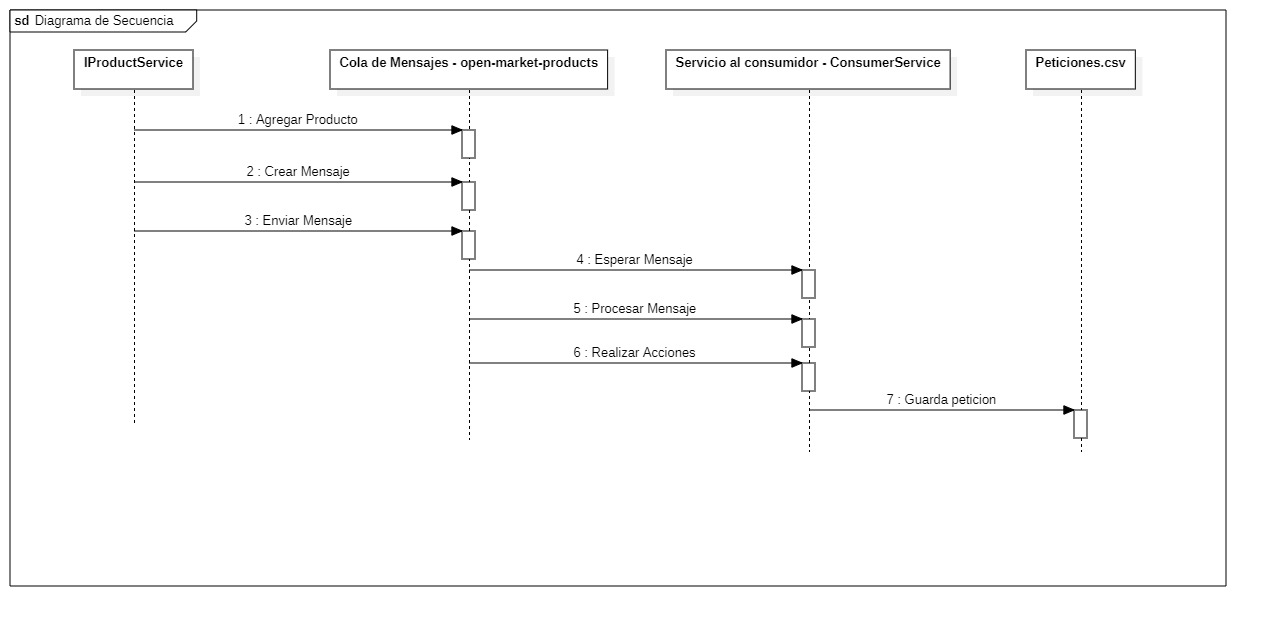
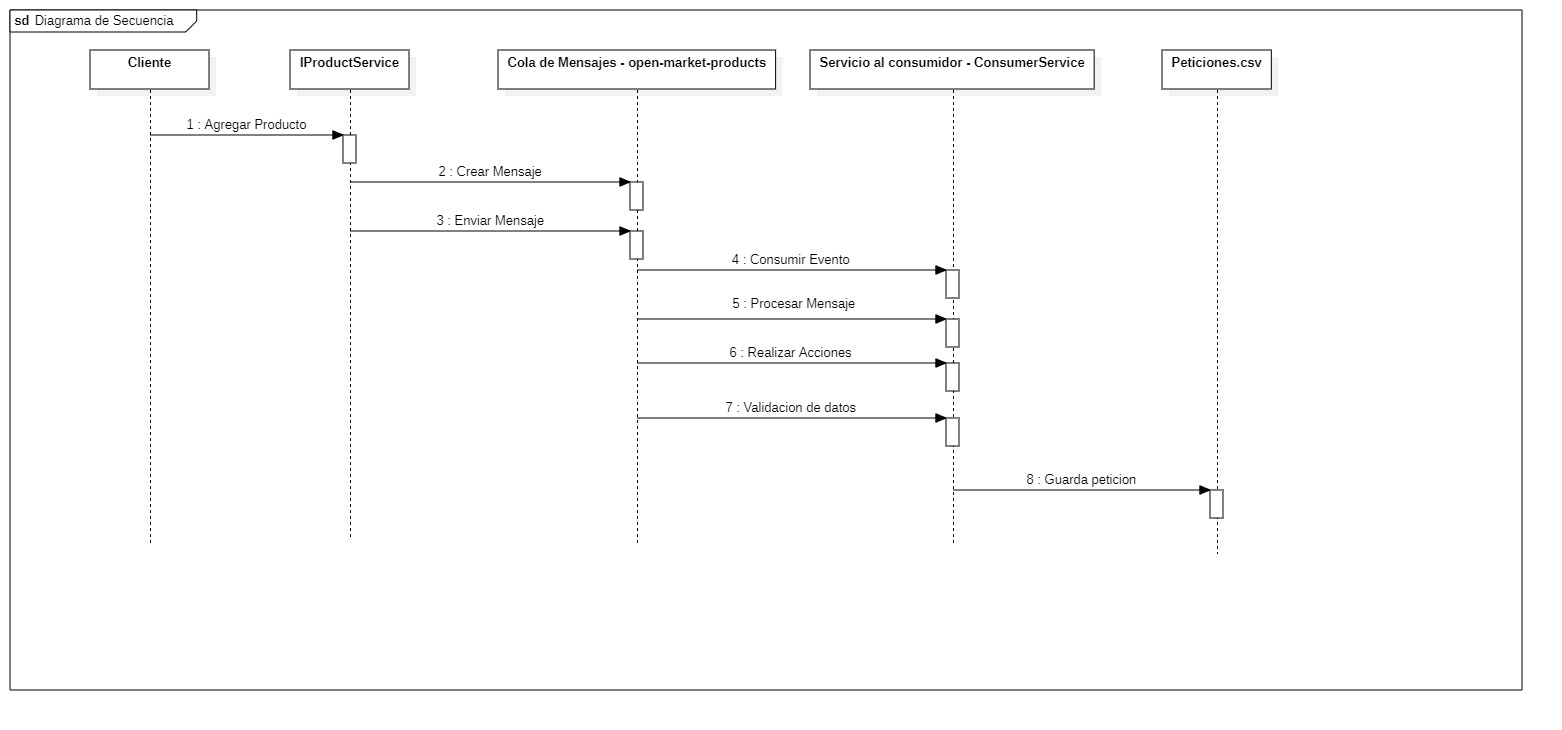
changes in relation to the suggestions made

Changed region(s): [[0.0, 0.0, 0.9858, 0.9712], [0.6161, 0.6374, 0.8626, 0.6981]]

diff --git a/aoe/open_market_producer/src/main/java/co/unicauca/open_market/config/QueueCreator.java b/aoe/open_market_producer/src/main/java/co/unicauca/open_market/config/QueueCreator.java
@@ -1,10 +1,12 @@
 package co.unicauca.open_market.config;
 
 import javax.annotation.PostConstruct;
+import org.springframework.amqp.core.Binding;
+import org.springframework.amqp.core.BindingBuilder;
+import org.springframework.amqp.core.FanoutExchange;
 import org.springframework.amqp.core.Queue;
 import org.springframework.amqp.rabbit.core.RabbitAdmin;
 import org.springframework.beans.factory.annotation.Autowired;
-import org.springframework.context.annotation.Bean;
 import org.springframework.stereotype.Component;
 
 @Component
@@ -20,6 +22,7 @@ public class QueueCreator {
     @PostConstruct
     public void createQueueOpenMarketProducts() {
         String queueName = "open-market-products";
+        String queueCsvName = "open-market-products-csv";
 
         if (!queueExists(queueName)) {
             Queue queue = new Queue(queueName, true, false, false);
@@ -28,6 +31,25 @@ public class QueueCreator {
             queue.getArguments().put("x-argument", "value");
 
             rabbitAdmin.declareQueue(queue);
+            
+            Queue queueCsv = new Queue(queueCsvName, true, false, false);
+            queueCsv.setShouldDeclare(true);
+
+            queueCsv.getArguments().put("x-argument", "value");
+
+            rabbitAdmin.declareQueue(queueCsv);
+            
+            
+            // Crear un intercambio de tipo "fanout"
+            FanoutExchange exchange = new FanoutExchange("open-market-products-exchange");
+            rabbitAdmin.declareExchange(exchange);
+
+            // Realizar la unión entre la cola y el intercambio
+            Binding binding = BindingBuilder.bind(queue).to(exchange);
+            rabbitAdmin.declareBinding(binding);
+            
+            Binding bindingCsv = BindingBuilder.bind(queueCsv).to(exchange);
+            rabbitAdmin.declareBinding(bindingCsv);
         }
     }
 

diff --git a/aoe/open_market_producer/src/main/java/co/unicauca/open_market/domain/service/ProductServiceImpl.java b/aoe/open_market_producer/src/main/java/co/unicauca/open_market/domain/service/ProductServiceImpl.java
@@ -39,7 +39,7 @@ public class ProductServiceImpl implements IProductService {
     @Transactional(readOnly = false)
     public Product create(Product product) {
         Product newProduct = this.repository.save(product);
-        rabbitTemplate.convertAndSend("open-market-products", (String)createMessage(newProduct));
+        rabbitTemplate.convertAndSend("open-market-products-exchange", "", (String)createMessage(newProduct));
         return newProduct;
     }
 
@@ -49,8 +49,7 @@ public class ProductServiceImpl implements IProductService {
         Product updateProduct = find(id);
         updateProduct.setName(product.getName());
         updateProduct.setPrice(product.getPrice());
-        updateProduct.setDescription(product.getDescription());
-        rabbitTemplate.convertAndSend("open-market-products", (String)updateMessage(updateProduct));
+        rabbitTemplate.convertAndSend("open-market-products-exchange", "", (String)updateMessage(updateProduct));
 
         return this.repository.save(updateProduct);
     }
@@ -60,7 +59,7 @@ public class ProductServiceImpl implements IProductService {
     public Product delete(Long id) {
         Product deleteProduct = find(id);
         this.repository.delete(deleteProduct);
-        rabbitTemplate.convertAndSend("open-market-products", (String)deleteMessage(deleteProduct));
+        rabbitTemplate.convertAndSend("open-market-products-exchange", "", (String)deleteMessage(deleteProduct));
 
         return deleteProduct;
     }

diff --git a/aoe/open_market_consumer/src/main/java/co/unicauca/open_market_consumer/infra/messaging/QueueConsumer.java b/aoe/open_market_consumer/src/main/java/co/unicauca/open_market_consumer/infra/messaging/QueueConsumer.java
@@ -2,16 +2,17 @@
  * Click nbfs://nbhost/SystemFileSystem/Templates/Licenses/license-default.txt to change this license
  * Click nbfs://nbhost/SystemFileSystem/Templates/Classes/Class.java to edit this template
  */
+// QueueConsumer de la aplicación con Spring
 package co.unicauca.open_market_consumer.infra.messaging;
+
 import co.unicauca.open_market_consumer.domain.service.ConsumerService;
+import org.springframework.amqp.rabbit.annotation.Exchange;
+import org.springframework.amqp.rabbit.annotation.Queue;
+import org.springframework.amqp.rabbit.annotation.QueueBinding;
 import org.springframework.amqp.rabbit.annotation.RabbitListener;
 import org.springframework.amqp.rabbit.core.RabbitAdmin;
 import org.springframework.beans.factory.annotation.Autowired;
 import org.springframework.stereotype.Component;
-/**
- *
- * @author RodAlejo
- */
 
 @Component
 public class QueueConsumer {
@@ -25,7 +26,9 @@ public class QueueConsumer {
         this.consumerService = consumerService;
     }
 
-    @RabbitListener(queues = "open-market-products")
+    @RabbitListener(bindings = @QueueBinding(
+            value = @Queue(value = "open-market-products"),
+            exchange = @Exchange(value = "open-market-products-exchange", type = "fanout")))
     public void receiveMessage(String message) {
         if (queueExists("open-market-products")) {
             consumerService.receiveMessage(message);

diff --git a/aoe/open_market_consumer_csv/src/main/java/co/unicauca/open_market_consumer_csv/domain/persistence/CsvWriter.java b/aoe/open_market_consumer_csv/src/main/java/co/unicauca/open_market_consumer_csv/domain/persistence/CsvWriter.java
@@ -1,0 +1,32 @@
+/*
+ * Click nbfs://nbhost/SystemFileSystem/Templates/Licenses/license-default.txt to change this license
+ * Click nbfs://nbhost/SystemFileSystem/Templates/Classes/Class.java to edit this template
+ */
+package co.unicauca.open_market_consumer_csv.domain.persistence;
+
+import java.io.FileWriter;
+import java.io.IOException;
+/**
+ *
+ * @author RodAlejo
+ */
+
+
+public class CsvWriter {
+
+    private static final String CSV_FILE_PATH = "peticiones.csv";
+
+    public void writeMessageToCSV(String message) {
+        
+        String cleanedMessage = message.substring(1, message.length() - 1);
+        String cleanJsonString = cleanedMessage.replace("\\\"", "'");
+        
+        try (FileWriter writer = new FileWriter(CSV_FILE_PATH, true)) {
+            writer.append(cleanJsonString);
+            writer.append('\n');
+            writer.flush();
+        } catch (IOException e) {
+            e.printStackTrace();
+        }
+    }
+}

diff --git a/aoe/open_market_consumer_csv/src/main/java/co/unicauca/open_market_consumer_csv/infra/messaging/QueueConsumer.java b/aoe/open_market_consumer_csv/src/main/java/co/unicauca/open_market_consumer_csv/infra/messaging/QueueConsumer.java
@@ -1,7 +1,3 @@
-/*
- * Click nbfs://nbhost/SystemFileSystem/Templates/Licenses/license-default.txt to change this license
- * Click nbfs://nbhost/SystemFileSystem/Templates/Classes/Class.java to edit this template
- */
 package co.unicauca.open_market_consumer_csv.infra.messaging;
 
 import co.unicauca.open_market_consumer_csv.domain.service.ConsumerService;
@@ -12,7 +8,7 @@ import java.nio.charset.StandardCharsets;
 
 public class QueueConsumer {
 
-    private static final String QUEUE_NAME = "open-market-products";
+    private static final String QUEUE_NAME = "open-market-products-csv";
     private final ConsumerService consumerService;
 
     public QueueConsumer(ConsumerService consumerService) {

diff --git a/aoe/open_market_consumer_csv/src/main/java/co/unicauca/open_market_consumer_csv/Open_market_consumer_csv.java b/aoe/open_market_consumer_csv/src/main/java/co/unicauca/open_market_consumer_csv/Open_market_consumer_csv.java
@@ -5,7 +5,7 @@
 package co.unicauca.open_market_consumer_csv;
 
 import co.unicauca.open_market_consumer_csv.domain.service.ConsumerService;
-import co.unicauca.open_market_consumer_csv.domain.service.persistence.CsvWriter;
+import co.unicauca.open_market_consumer_csv.domain.persistence.CsvWriter;
 import co.unicauca.open_market_consumer_csv.infra.messaging.QueueConsumer;
 
 /**

diff --git a/aoe/open_market_consumer_csv/src/main/java/co/unicauca/open_market_consumer_csv/domain/service/ConsumerService.java b/aoe/open_market_consumer_csv/src/main/java/co/unicauca/open_market_consumer_csv/domain/service/ConsumerService.java
@@ -4,7 +4,7 @@
  */
 package co.unicauca.open_market_consumer_csv.domain.service;
 
-import co.unicauca.open_market_consumer_csv.domain.service.persistence.CsvWriter;
+import co.unicauca.open_market_consumer_csv.domain.persistence.CsvWriter;
 
 /**
  *
